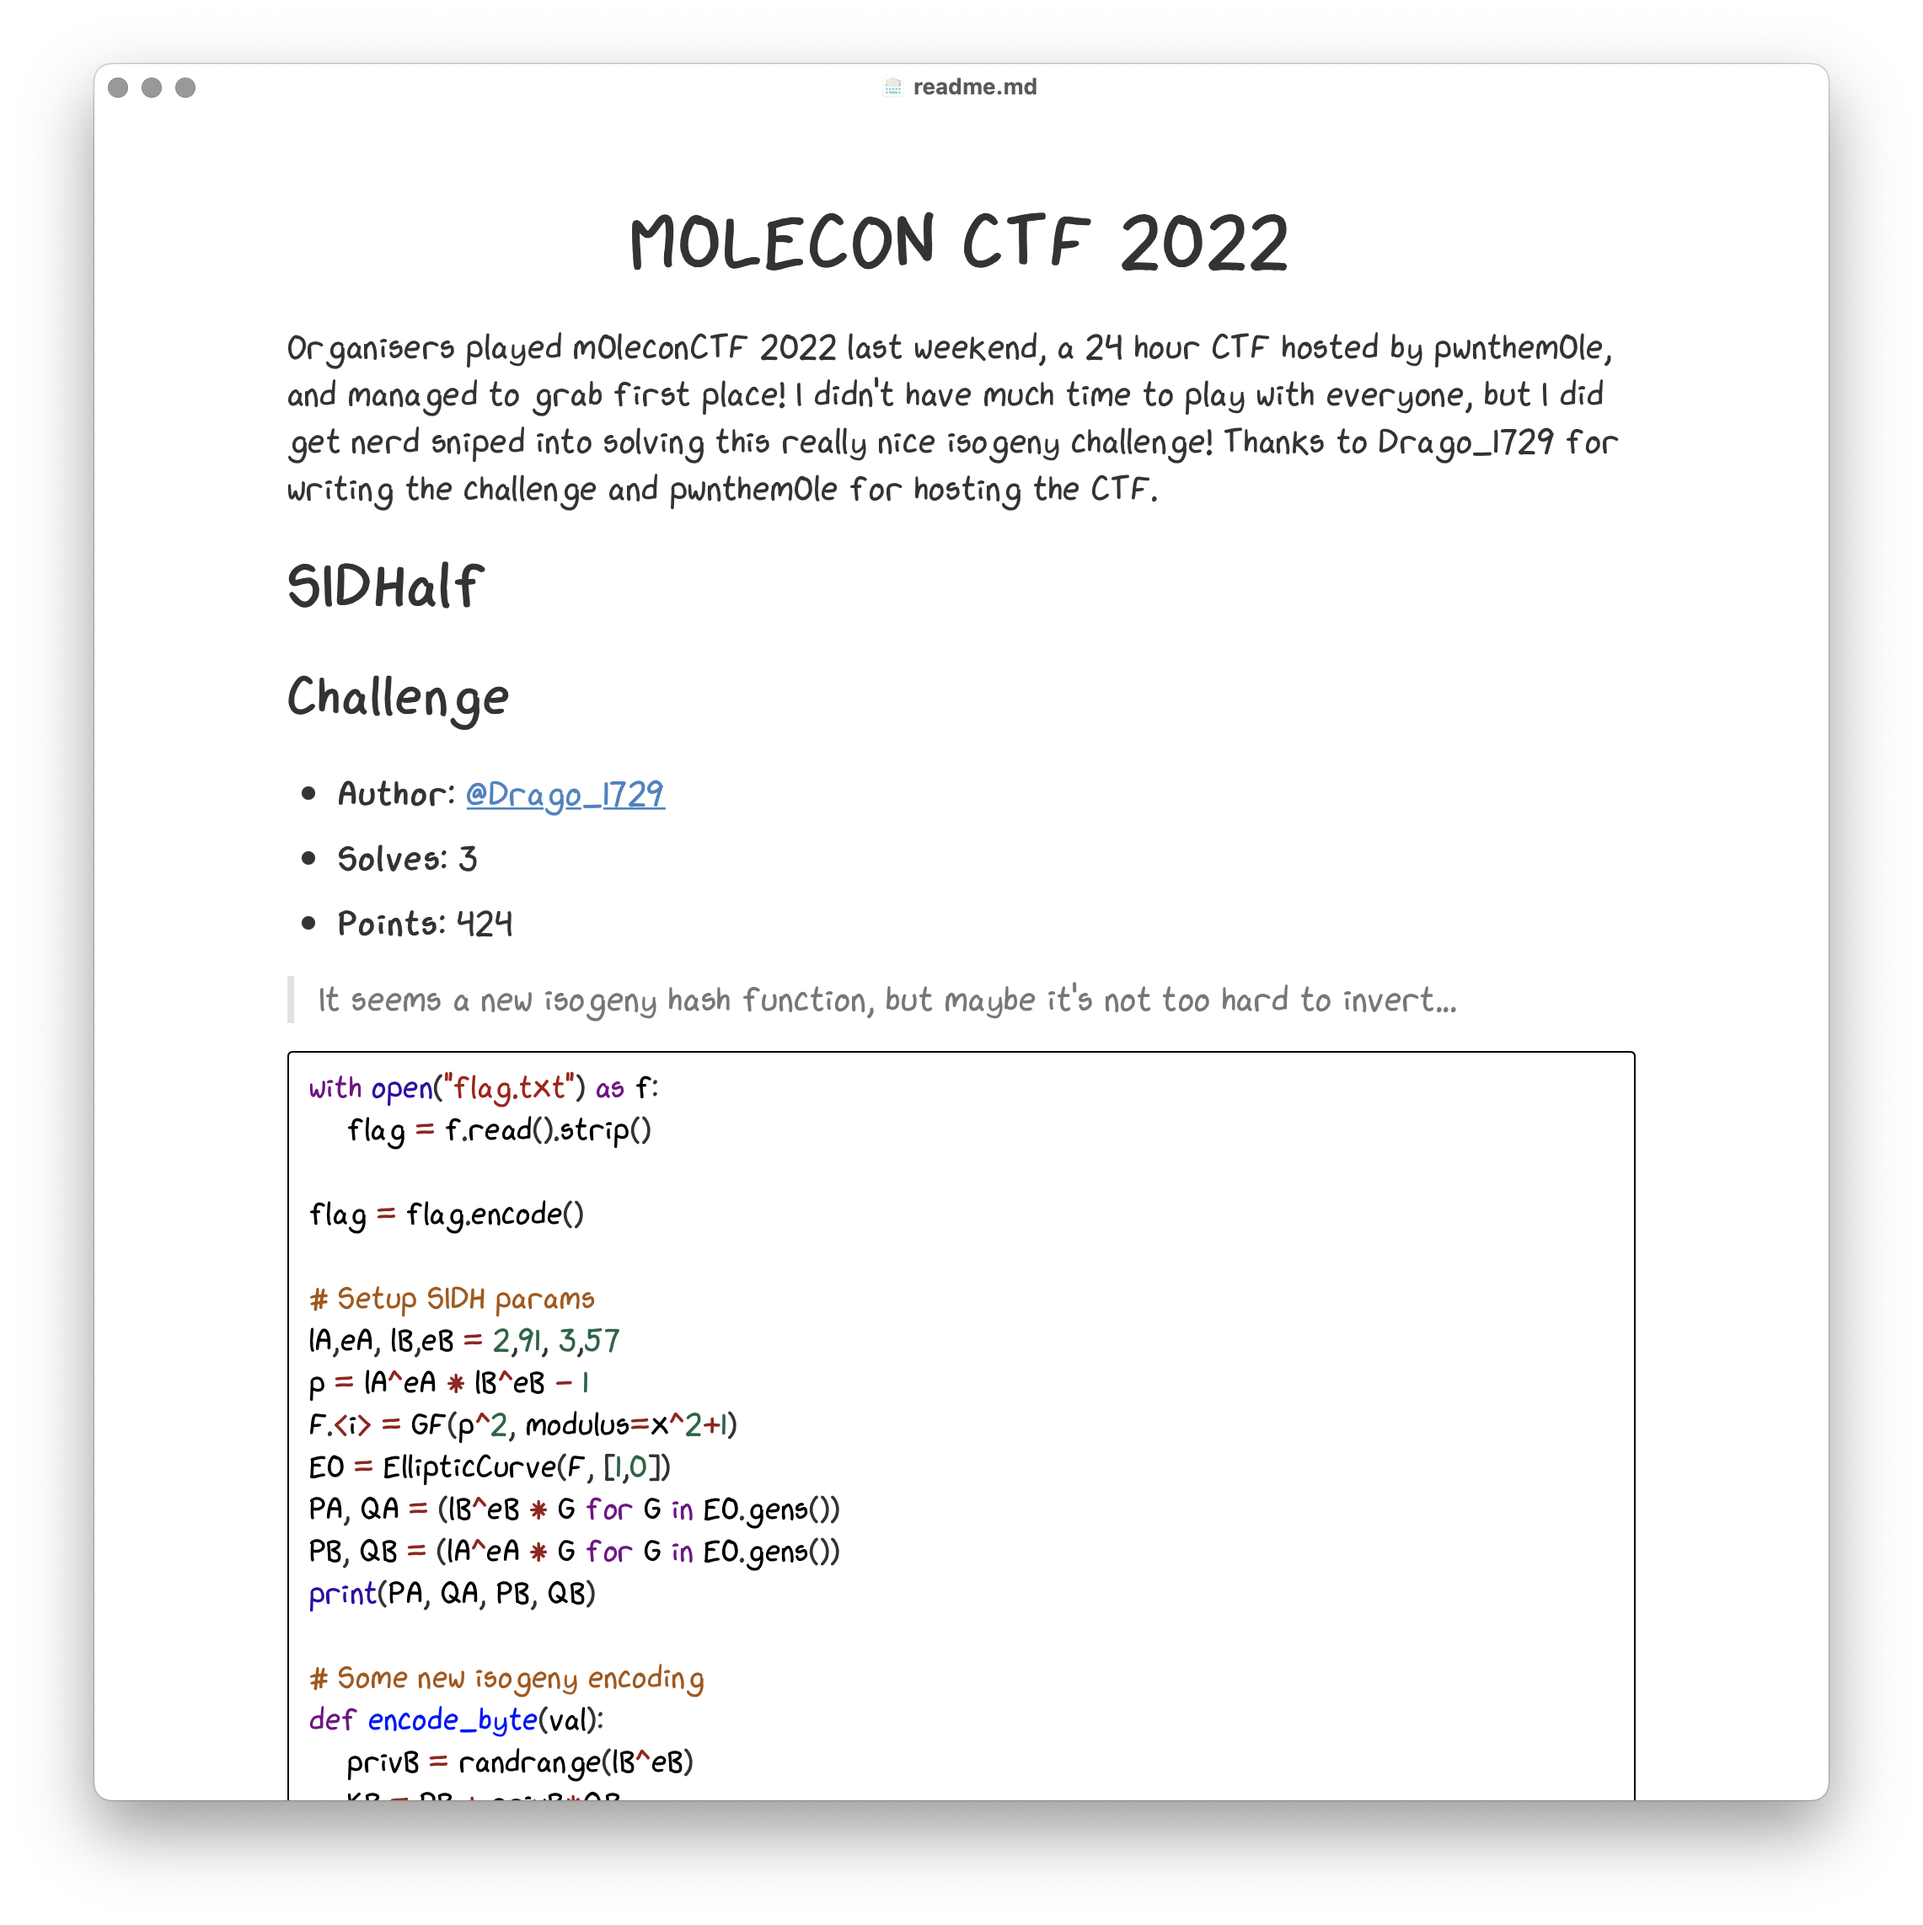
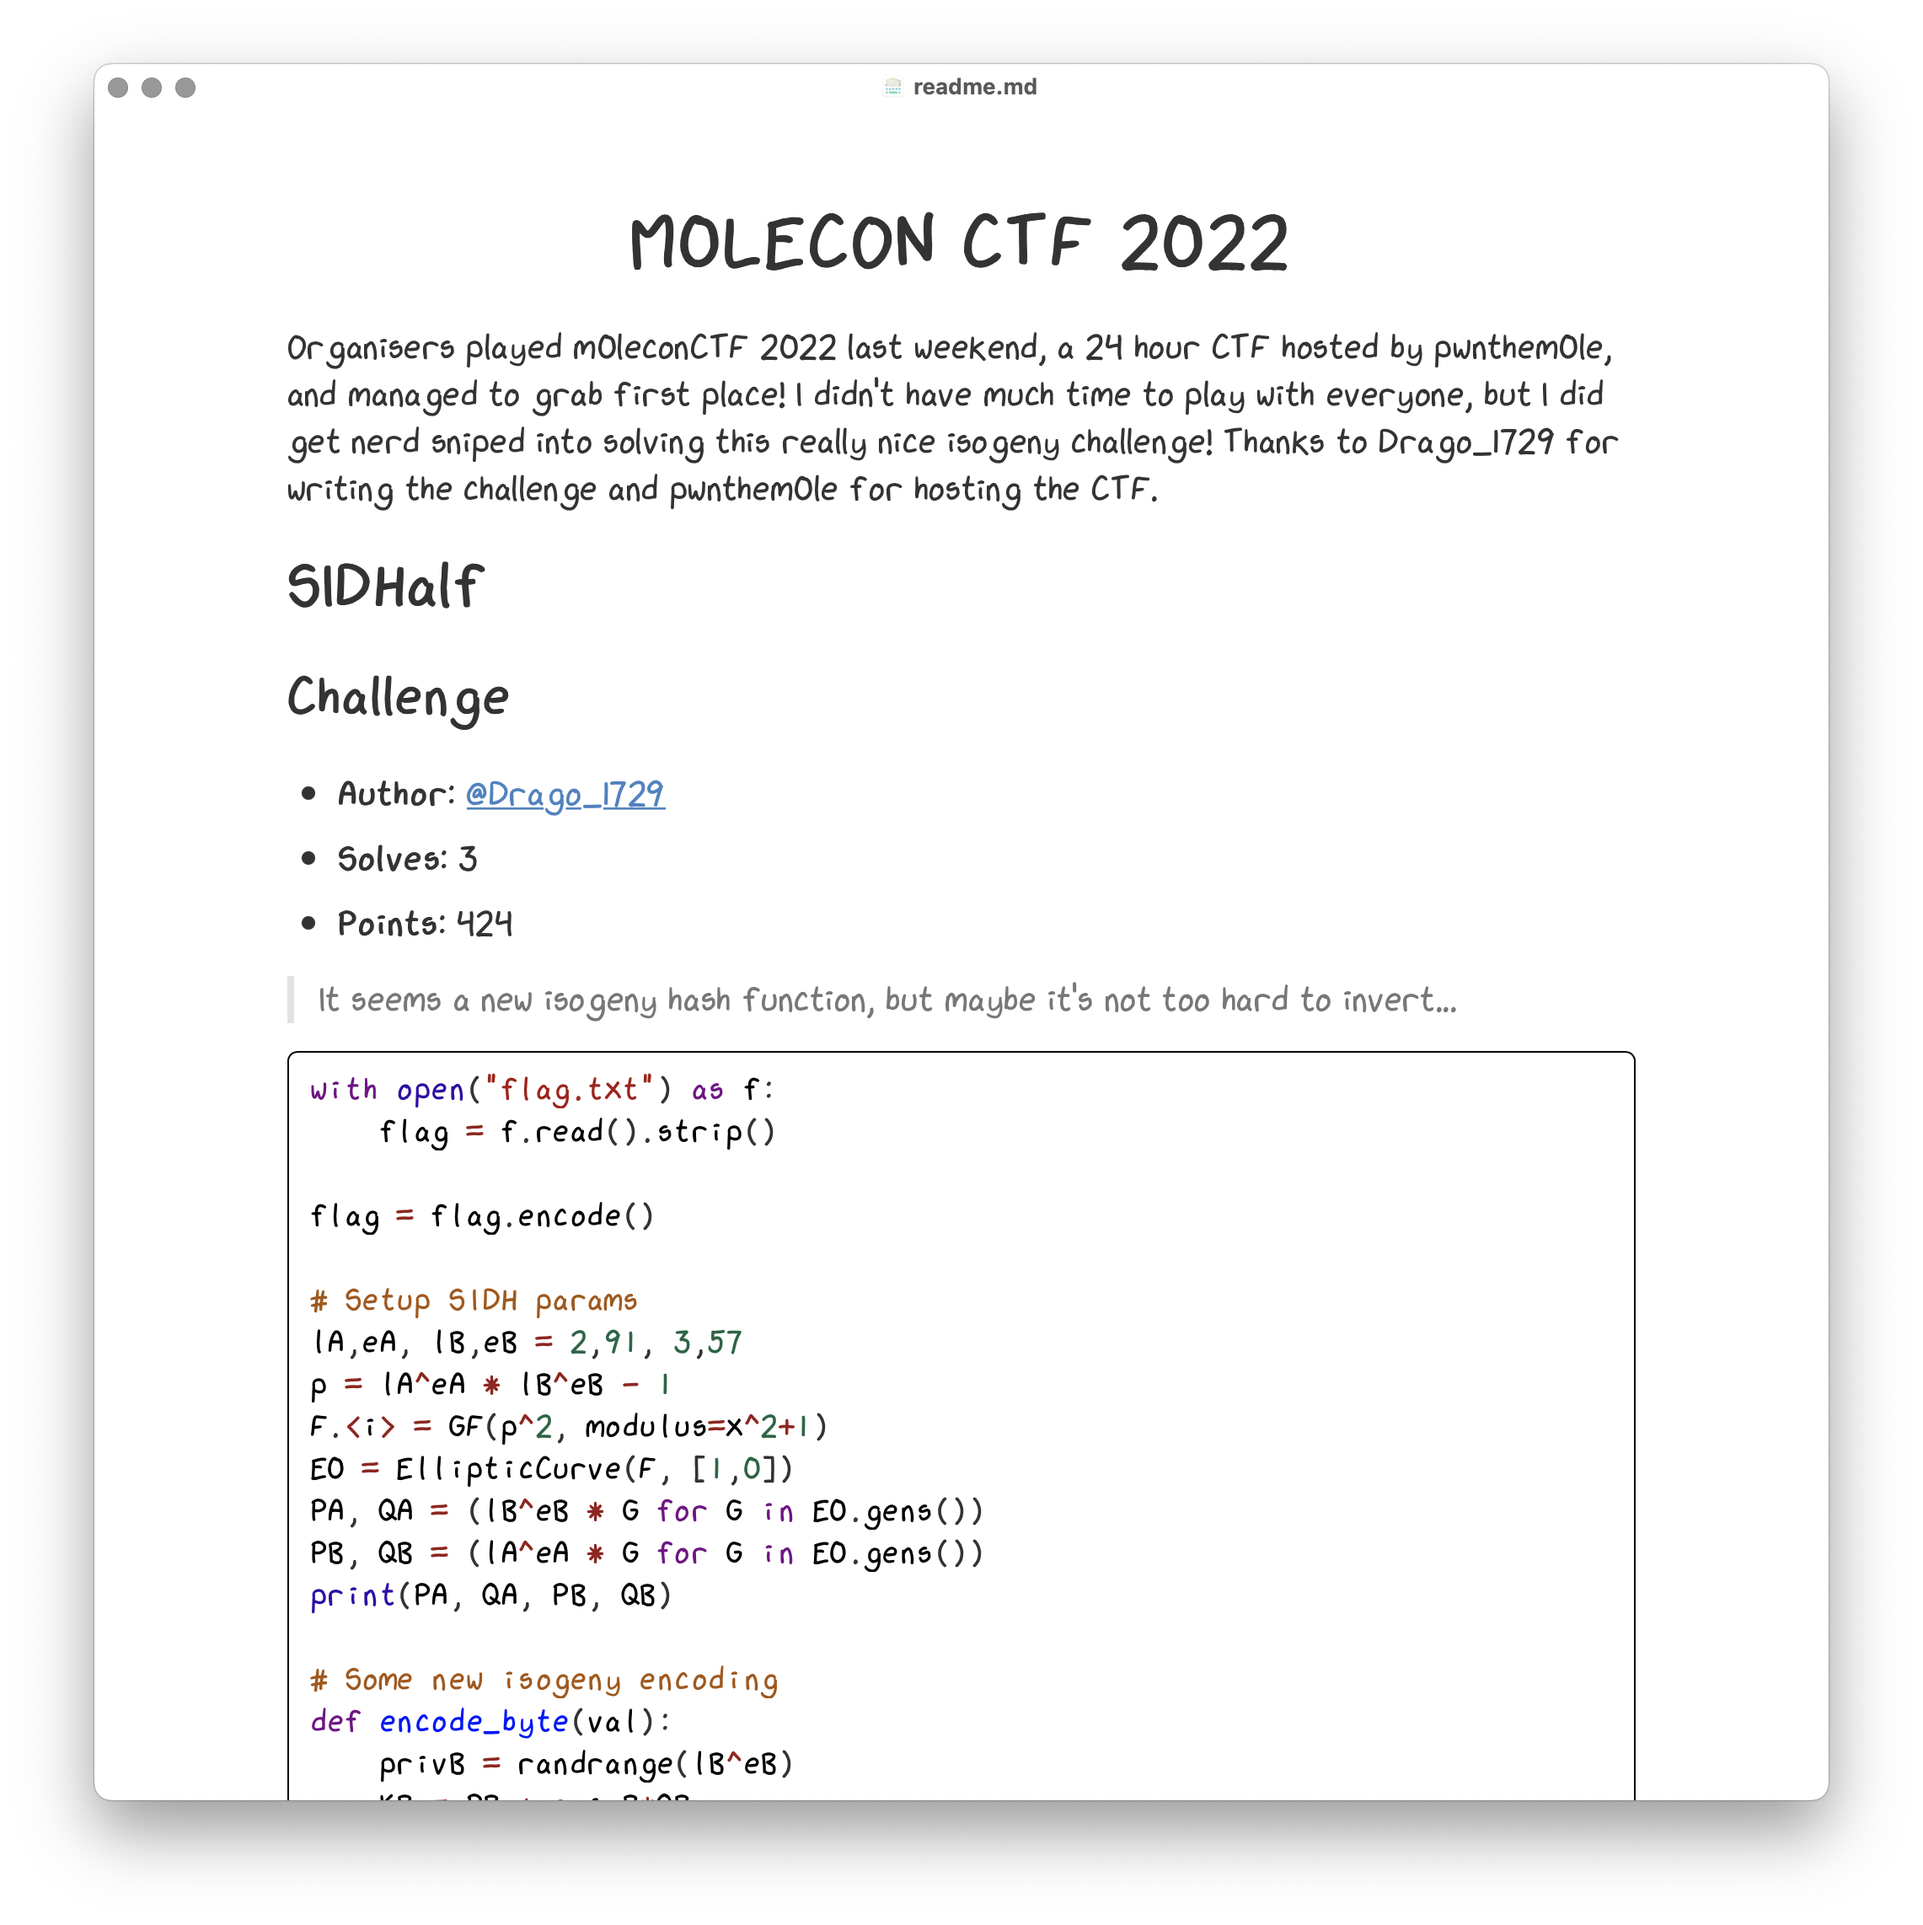
Mono font and screenshots

Changed region(s): [[0.1556, 0.6217, 0.4978, 0.8393], [0.1556, 0.8704, 0.4045, 0.9326], [0.1556, 0.5595, 0.4045, 0.5906]]

diff --git a/xkcd.css b/xkcd.css
@@ -30,6 +30,7 @@ body {
 
 code, pre{
 	font-family: "XKCD-Mono", monospace;
+    letter-spacing: -1.5px;
 }
 
 #write {
@@ -265,6 +266,7 @@ pre{
     padding-top: 8px;
     padding-bottom: 6px;
     border: 1px solid black!important;
+    border-radius: 6px;
 }
 
 
